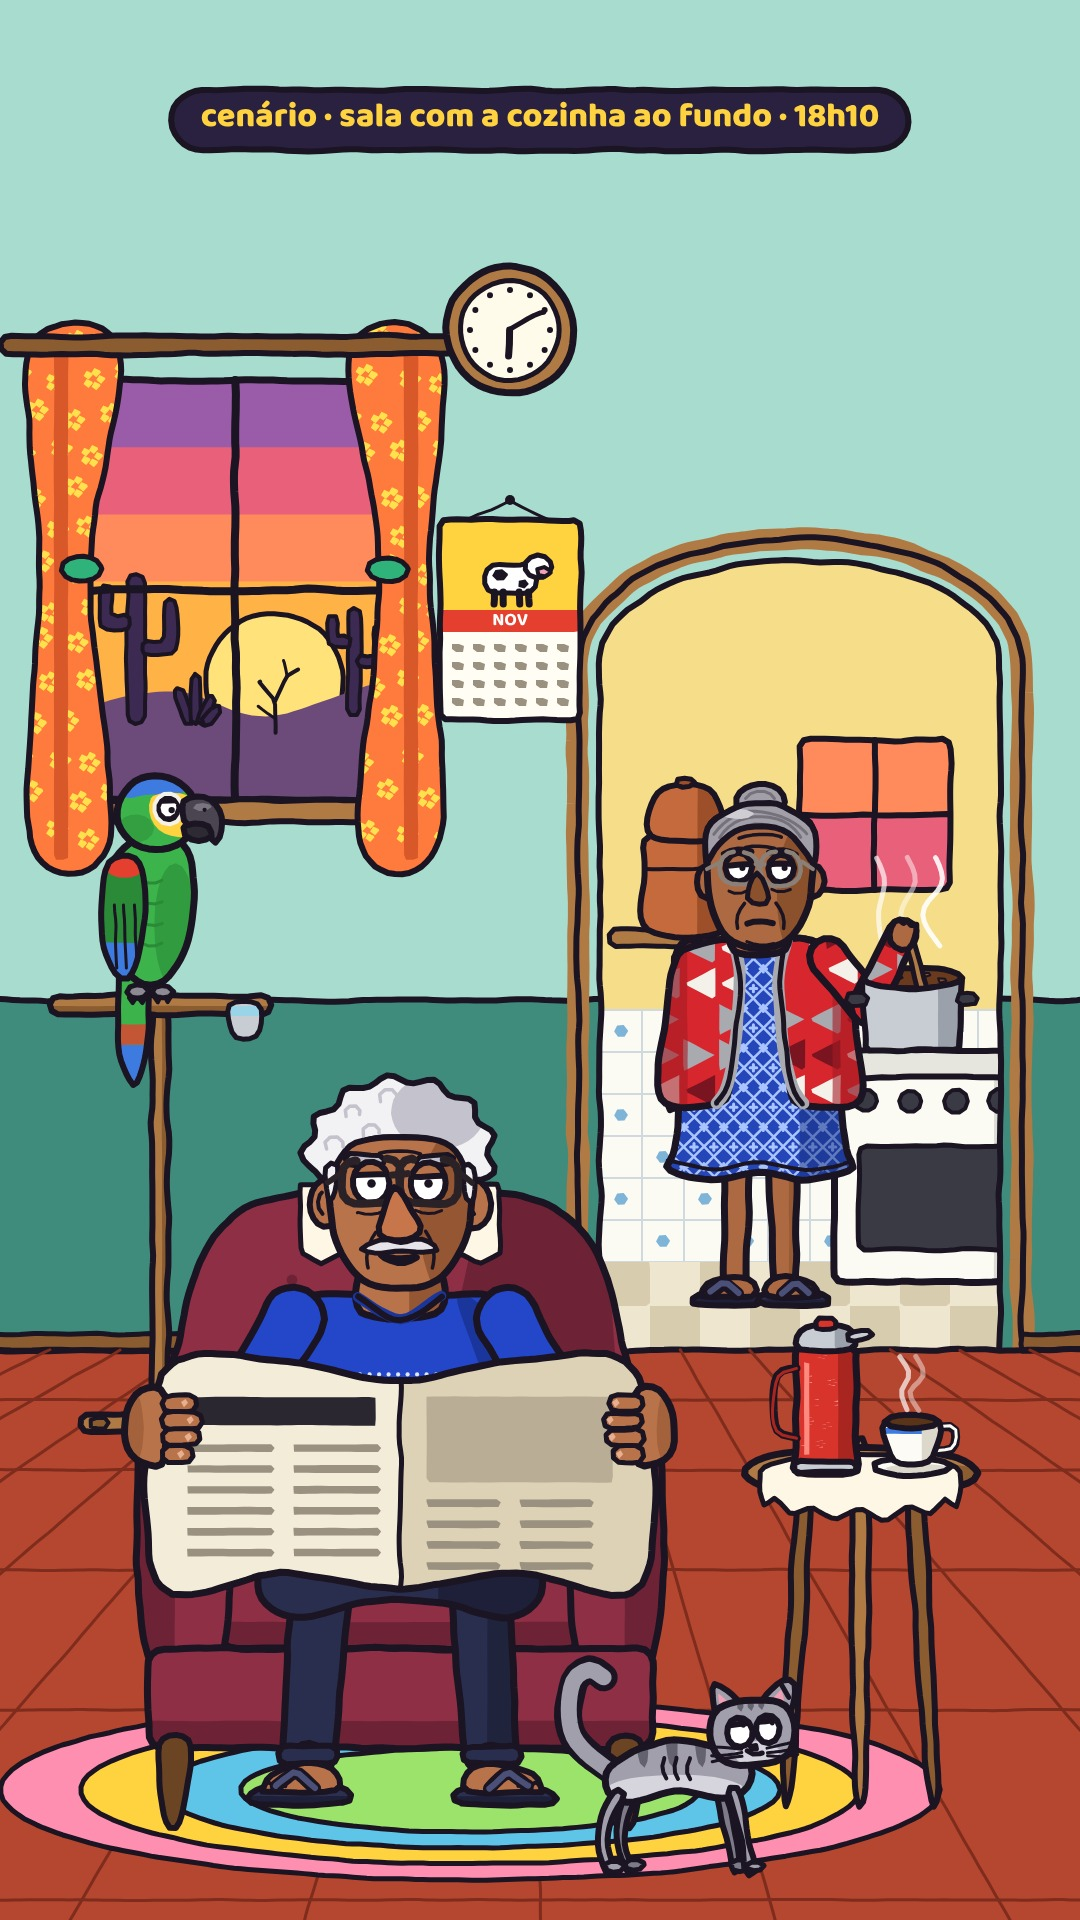
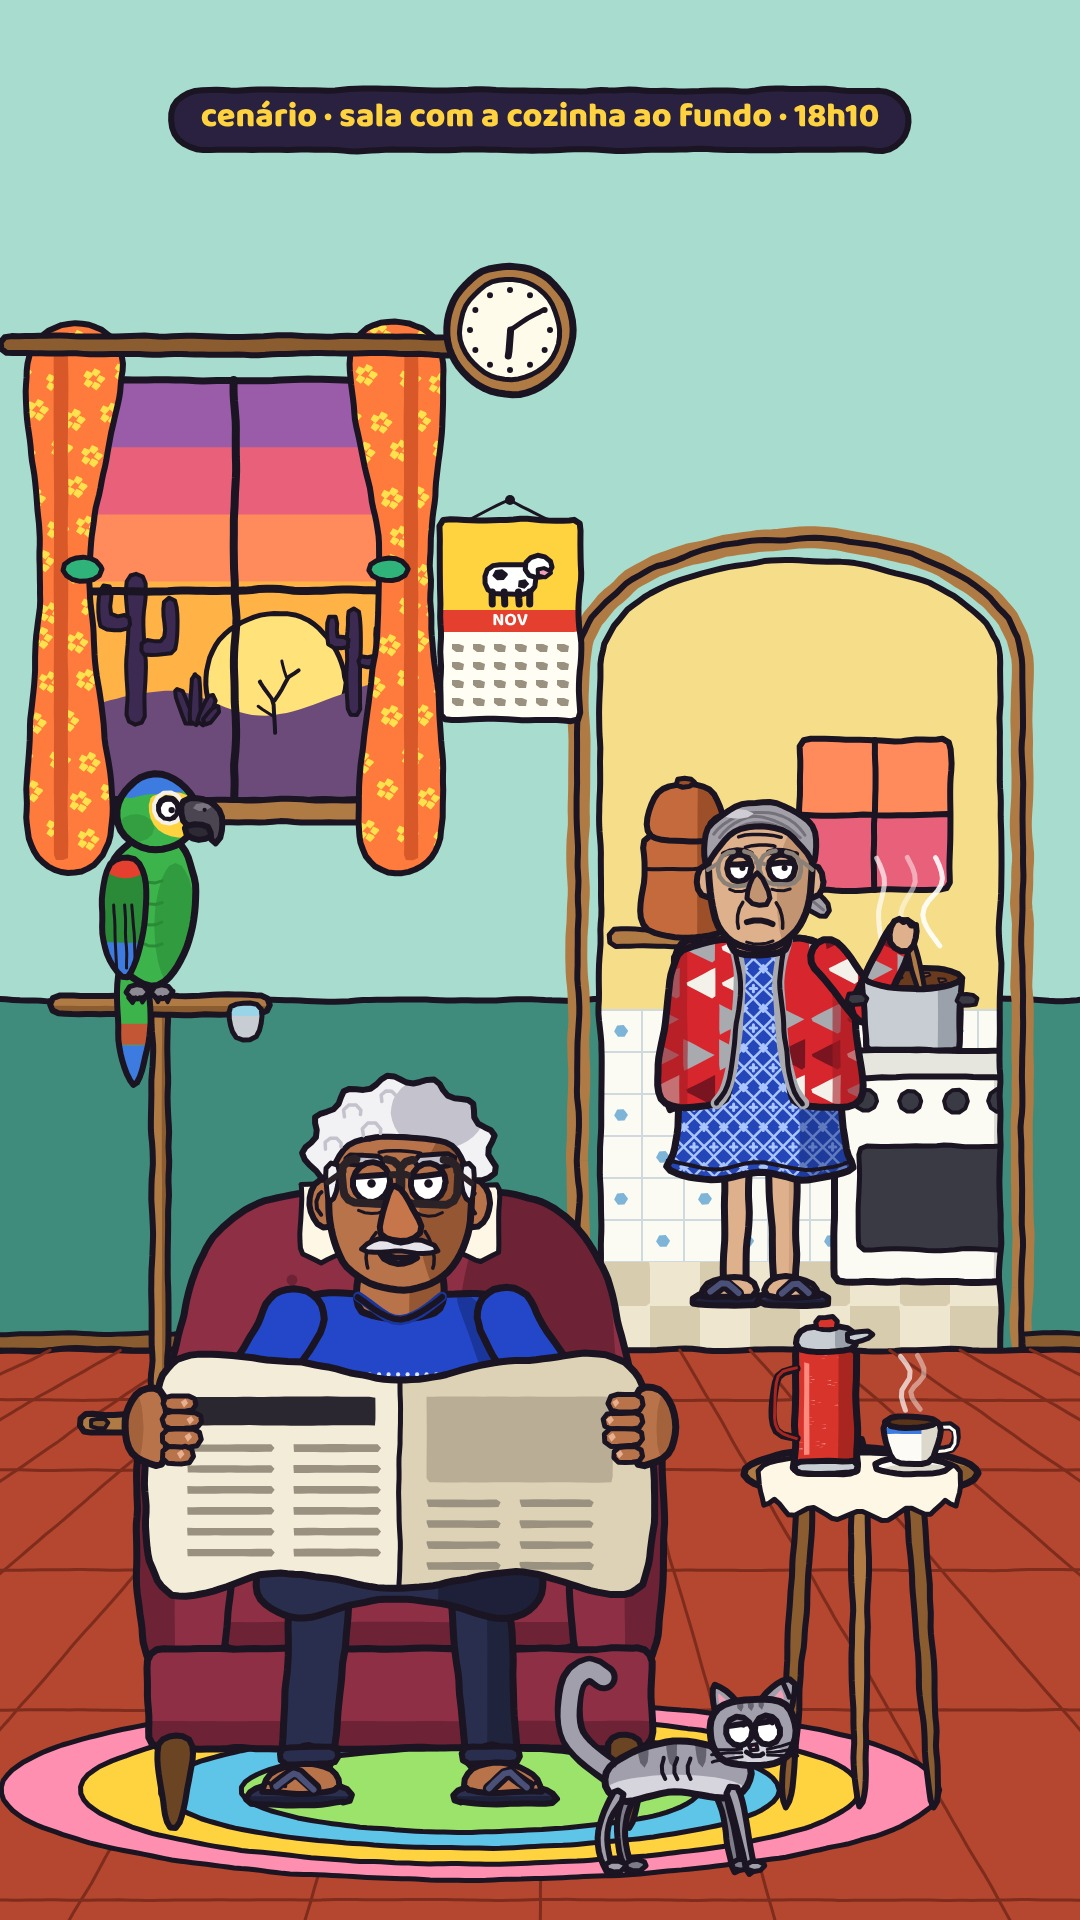
Dona Zefinha: lighter skin, short hair tied back instead of a bun
Claude-Session: https://claude.ai/code/session_01Vj4AmTyz2VXWMZUhwj9hEg

diff --git a/jornal/cast.js b/jornal/cast.js
@@ -10,8 +10,8 @@ export const PAL = {
   cSkin: '#b8734a', cSkinS: '#955733', cNose: '#c7764c', nail: '#e8b090', hairC: '#f2f1f4', hairCS: '#c4c2cc', stacheC: '#e6e3ea',
   shirt: '#2347c8', shirtS: '#1a369c', pants: '#2a2e4e', pantsS: '#1d2038', frame: '#2a2226',
   flip: '#2fb37a', flipS: '#1f8a5b', flipN: '#2c3050', flipNS: '#1d2038', strapN: '#4a5078', strap: '#f4f1ea', gold: '#e2b33c', goldS: '#b98a1f',
-  // Dona Zefinha: cabelo grisalho em coque, vestido azul de treliça, casaco vermelho geométrico
-  zSkin: '#ad6a42', zSkinS: '#8b502c', zHair: '#a29fa8', zHairS: '#75727c', dressZ: '#2446b8', dressZS: '#17307f', lattice: '#a9c4ff',
+  // Dona Zefinha: pele morena clara, cabelo grisalho curtinho amarrado pra trás, vestido azul de treliça, casaco vermelho geométrico
+  zSkin: '#deb08c', zSkinS: '#c39472', zHair: '#a29fa8', zHairS: '#75727c', dressZ: '#2446b8', dressZS: '#17307f', lattice: '#a9c4ff',
   cardi: '#d8262e', cardiS: '#a51b23', cardiG: '#a9a9b0', cardiW: '#f4f1ea', cardiD: '#7a1420', frameZ: '#8a8078',
   // gato magricelo: cinza rajado
   cat: '#a19fab', catS: '#7d7b88', catStripe: '#64626e', catPink: '#f2a0b5', catBelly: '#d6d4dc',
@@ -242,7 +242,7 @@ function geometrico(x0, y0, w, h, seed = 1) {
   }
 }
 
-// —— 2. DONA ZEFINHA: cabelo grisalho puxado num coque, óculos de aro fino, vestido azul de treliça,
+// —— 2. DONA ZEFINHA: cabelo grisalho curtinho, puxado e amarrado pra trás, óculos de aro fino, vestido azul de treliça,
 //    casaco vermelho geométrico aberto, chinelo azul-marinho; braços cruzados, cara de "bem que te avisei" ——
 // P: { x, y, s, t, face, armL, armR, cross (braços cruzados), mouth, look, lid, brow, tilt, spoon }
 export function zefinha(P) {
@@ -272,7 +272,9 @@ export function zefinha(P) {
   // cabeça
   push(); translate(0, T - 8); rotate(P.tilt ?? 0); scale(1.14);
   shape(spline([[-34, 14], [-30, -40], [30, -40], [34, 14]]), { fill: PAL.zSkin, lw: 7, shade: () => fillOnly(rect(8, -50, 40, 70), PAL.zSkinS, { boil: .3 }) });
-  shape(ell(0, -184, 32, 24, 20), { fill: PAL.zHair, lw: 6, shade: () => stroke(arc(0, -184, 20, 14, Math.PI * 1.1, Math.PI * 1.9, 8), 3, { line: PAL.zHairS }) }); // coque
+  // rabinho curtinho amarrado atrás (só a pontinha aparece do lado da nuca) + elástico
+  shape(spline([[52, -70], [76, -64], [92, -44], [84, -30], [64, -42], [50, -52]]), { fill: PAL.zHair, lw: 5, shade: () => stroke([[60, -60], [84, -40]], 3, { line: PAL.zHairS }) });
+  shape(ell(56, -62, 7, 9, 10), { fill: PAL.cardiD, lw: 4 });
   for (const sx of [-1, 1]) shape(ell(sx * 70, -78, 14, 22, 14), { fill: PAL.zSkin, lw: 6 });
   shape(spline([[-70, -110], [-62, -160], [0, -172], [62, -160], [70, -110], [64, -44], [40, -2], [0, 10], [-40, -2], [-64, -44]]), {
     fill: PAL.zSkin, lw: 7, shade: () => fillOnly(ell(52, -60, 30, 90, 24), PAL.zSkinS, { boil: .4 })
